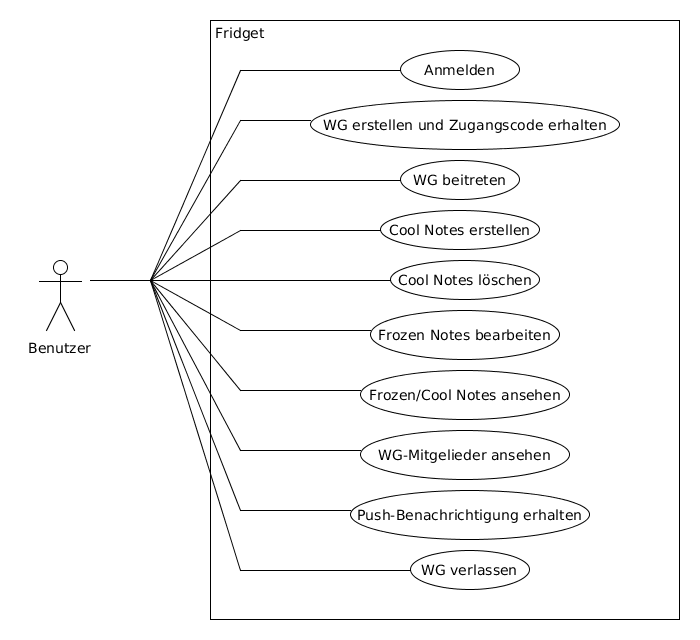
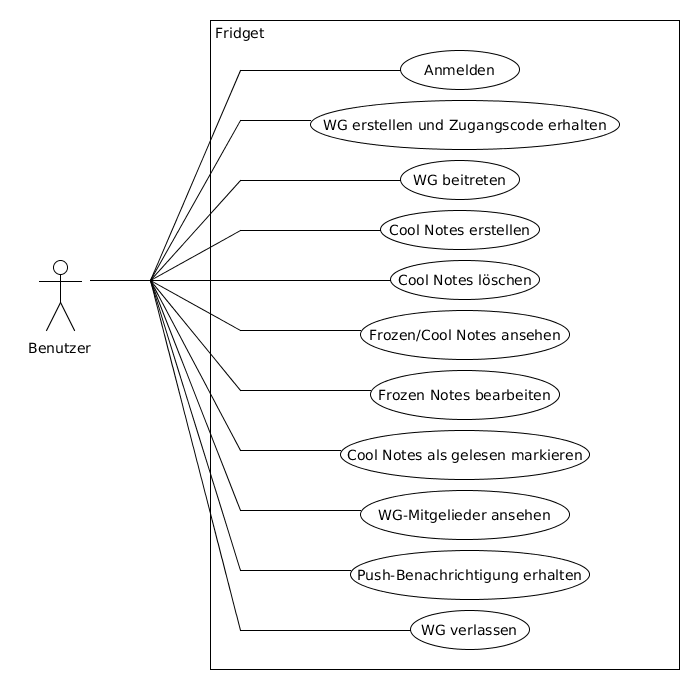
Update Anwendungsfaelle

diff --git a/documentation/Pflichtenheft/Anwendungsfaelle.tex b/documentation/Pflichtenheft/Anwendungsfaelle.tex
@@ -23,7 +23,7 @@
 		\section{WG erstellen und Zugangscode erhalten}
 		\textbf{Teilnehmende Akteure}: Benutzer \\
 		\textbf{Eingangsbedingungen}: Der Benutzer hat sich angemeldet. Das Internet ist verfügbar. \\
-		\textbf{Ausgangsbedingung}: Ein Zugangscode wird angezeigt. \\
+		\textbf{Ausgangsbedingung}: Ein Zugangscode wurde angezeigt. \\
 		\textbf{Ereignisfluss}: WG wird erstellt $\rightarrow$ Zugangscode wird generiert
 		
 		\section{WG beitreten}
@@ -35,26 +35,32 @@
 		\section{Cool Notes erstellen}
 		\textbf{Teilnehmende Akteure}: Benutzer \\
 		\textbf{Eingangsbedingungen}: Der Benutzer hat sich angemeldet und ist einer WG beigetreten. Die Pinnwand ist nicht voll und keiner erstellt gerade die letzte Cool Note. Das Internet ist verfügbar. \\
-		\textbf{Ausgangsbedingung}: Der Benutzer bestätigt das Erstellen. \\
+		\textbf{Ausgangsbedingung}: Der Benutzer hat das Erstellen bestätigt. \\
 		\textbf{Ereignisfluss}: Cool Note wird erstellt
 		
 		\section{Cool Notes löschen}
 		\textbf{Teilnehmende Akteure}: Benutzer \\
-		\textbf{Eingangsbedingungen}: Der Benutzer hat sich angemeldet und ist einer WG beigetreten. Der Benutzer ist der Ersteller von der Cool Note und keiner liest gerade dieselbe Cool Note. Das Internet ist verfügbar. \\
-		\textbf{Ausgangsbedingung}: Der Benutzer bestätigt das Löschen. \\
+		\textbf{Eingangsbedingungen}: Der Benutzer hat eine Cool Note, die nicht von ihm erstellt wurde, geöffnet. Keiner liest gerade dieselbe Cool Note. Das Internet ist verfügbar. \\
+		\textbf{Ausgangsbedingung}: Der Benutzer hat das Löschen bestätigt. \\
 		\textbf{Ereignisfluss}: Cool Note wird gelöscht
-		
-		\section{Frozen Notes bearbeiten}
-		\textbf{Teilnehmende Akteure}: Benutzer \\
-		\textbf{Eingangsbedingungen}: Der Benutzer hat sich angemeldet und ist einer WG beigetreten. Keiner bearbeitet gerade dieselbe Frozen Note. Das Internet ist verfügbar. \\
-		\textbf{Ausgangsbedingung}: Der Benutzer bestätigt das Bearbeiten. \\
-		\textbf{Ereignisfluss}: Frozen Note wird bearbeitet
 		
 		\section{Frozen/Cool Notes ansehen}
 		\textbf{Teilnehmende Akteure}: Benutzer \\
 		\textbf{Eingangsbedingungen}: Der Benutzer hat sich angemeldet und ist einer WG beigetreten. Die Pinnwand ist nicht leer. Das Internet ist verfügbar. \\
-		\textbf{Ausgangsbedingung}: Eine Frozen/Cool Note wird angezeigt. \\
+		\textbf{Ausgangsbedingung}: Eine Frozen/Cool Note wurde angezeigt. \\
 		\textbf{Ereignisfluss}: Frozen/Cool Note wird geöffnet $\rightarrow$ Frozen/Cool Note wird angesehen
+		
+		\section{Frozen Notes bearbeiten}
+		\textbf{Teilnehmende Akteure}: Benutzer \\
+		\textbf{Eingangsbedingungen}: Der Benutzer hat eine Frozen Note geöffnet. Keiner bearbeitet gerade dieselbe Frozen Note. Das Internet ist verfügbar. \\
+		\textbf{Ausgangsbedingung}: Der Benutzer hat das Bearbeiten bestätigt. \\
+		\textbf{Ereignisfluss}: Frozen Note wird bearbeitet
+		
+		\section{Cool Notes als gelesen markieren}
+		\textbf{Teilnehmende Akteure}: Benutzer \\
+		\textbf{Eingangsbedingungen}: Der Benutzer hat eine Cool Note, die nicht von ihm erstellt wurde, geöffnet. Die Cool Note wurde noch nicht als gelesen markiert. Das Internet ist verfügbar. \\
+		\textbf{Ausgangsbedingung}: Der Benutzer hat die Cool Note als gelesen markiert. \\
+		\textbf{Ereignisfluss}: Cool Note wird markiert
 		
 		\section{WG-Mitgelieder ansehen}
 		\textbf{Teilnehmende Akteure}: Benutzer \\
@@ -64,13 +70,13 @@
 		
 		\section{Push-Benachrichtigung erhalten}
 		\textbf{Teilnehmende Akteure}: Benutzer \\
-		\textbf{Eingangsbedingungen}: Der Benutzer hat sich angemeldet und ist einer WG beigetreten. Der Benutzer hat "Push-Benachrichtigung" von Fridget aktiviert. Das Internet ist verfügbar. \\
+		\textbf{Eingangsbedingungen}: Der Benutzer hat sich angemeldet und ist einer WG beigetreten. Der Benutzer hat ``Push-Benachrichtigung'' von Fridget aktiviert. Das Internet ist verfügbar. \\
 		\textbf{Ausgangsbedingung}: Die Push-Benachrichtigung wird auf den Geräten des Benutzers angezeigt. \\
 		\textbf{Ereignisfluss}: Neue Cool Note wird erstellt $\rightarrow$ Push-Benachrichtigung wird erhalten
 		
 		\section{WG verlassen}
 		\textbf{Teilnehmende Akteure}: Benutzer \\
 		\textbf{Eingangsbedingungen}: Der Benutzer hat sich angemeldet und ist einer WG beigetreten. Das Internet ist verfügbar. \\
-		\textbf{Ausgangsbedingung}: Der Benutzer bestätigt das Verlassen der WG. \\
+		\textbf{Ausgangsbedingung}: Der Benutzer hat das Verlassen der WG bestätigt. \\
 		\textbf{Ereignisfluss}: WG wird verlassen
 \end{document}
